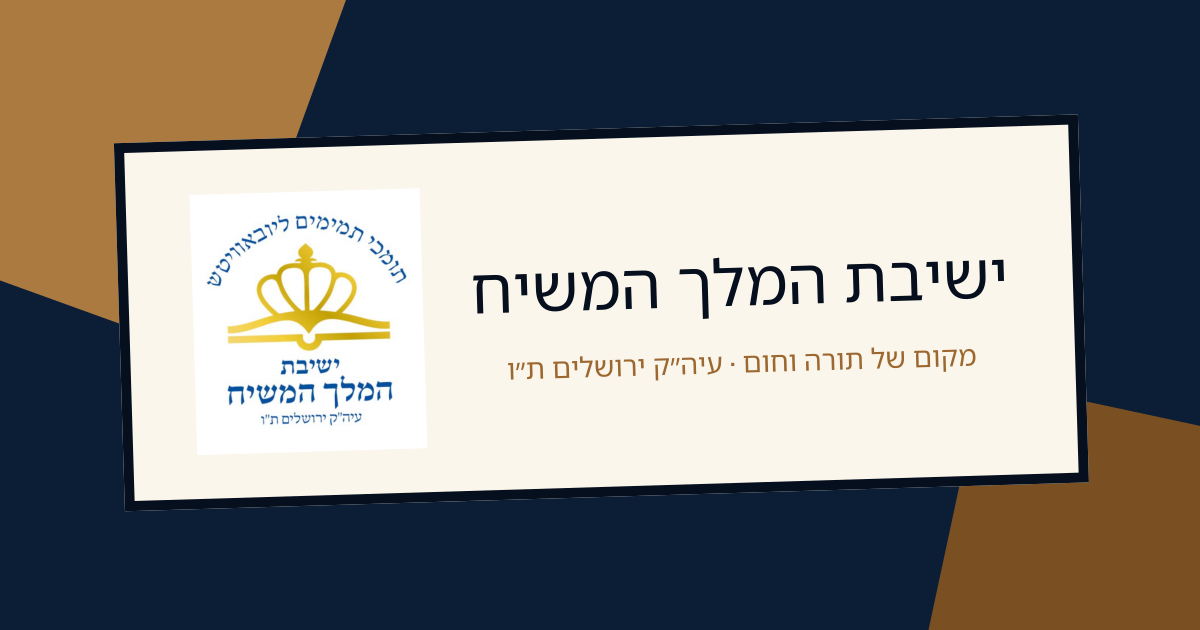
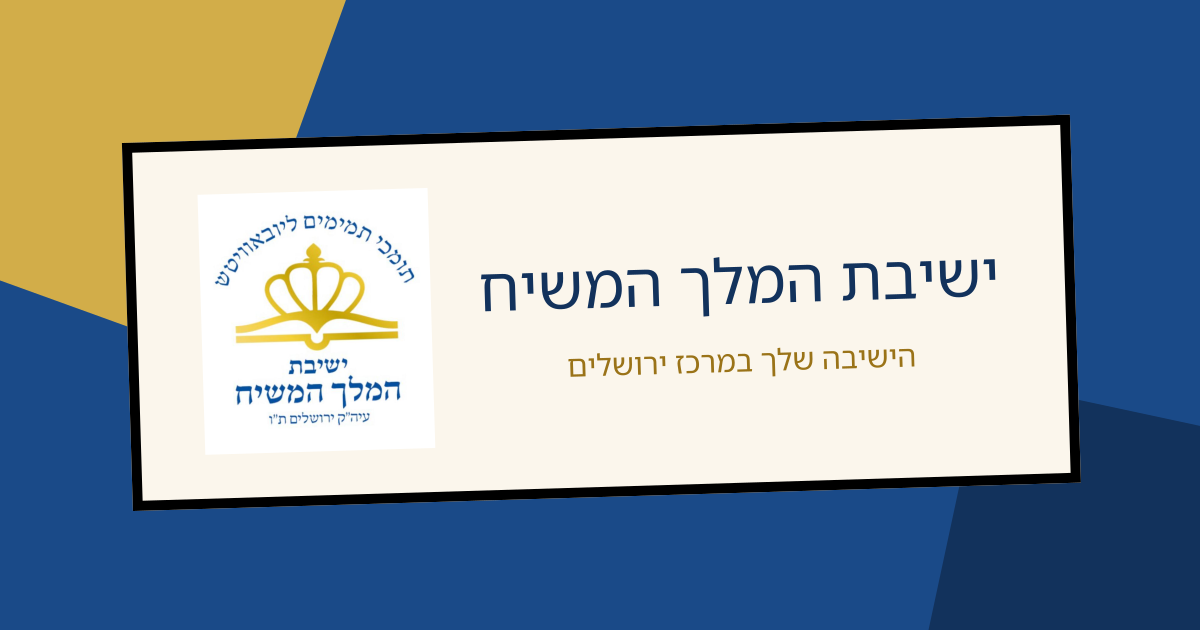
Align SEO description + OG share card with new branding
Updates SITE_DESCRIPTION to the new Chabad-in-Jerusalem positioning
(flows into the meta description, Open Graph, and Twitter card tags),
and regenerates the 1200x630 share image in the Royal Chabad Blue /
Crown Gold palette with the logo and the new "הישיבה שלך במרכז ירושלים"
tagline, replacing the old "מקום של תורה וחום" card.

Claude-Session: https://claude.ai/code/session_017wiAvsKnL23T1VNhJBmqrE

diff --git a/lib/site-config.ts b/lib/site-config.ts
@@ -9,7 +9,7 @@ export type NavLink = {
 export const SITE_NAME = "ישיבת המלך המשיח";
 export const SITE_TITLE = "ישיבת המלך המשיח | מקום של תורה וחום בירושלים";
 export const SITE_DESCRIPTION =
-  "ישיבת תומכי תמימים ליובאוויטש בעיה״ק ירושלים ת״ו — מקום של תורה וחום לתמימים ולמקרבים כאחד. קונטרסים, שיעורים, פעילויות ותרומות.";
+  "הישיבת חב״ד הגדולה בירושלים, לחוזרים בתשובה, ומתחזקים. המקום שלך להתקרב לה׳, ולהתכונן לחתונה.";
 
 // Sticky header + footer navigation share this list.
 export const NAV_LINKS: NavLink[] = [